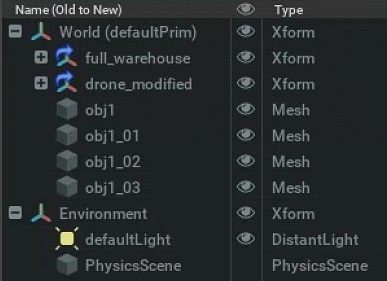
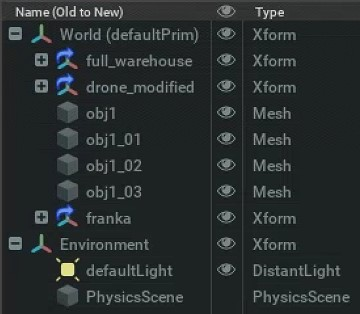
add franka

diff --git a/README.md b/README.md
@@ -6,9 +6,11 @@ Another part of code could be found from [my another repository](https://github.
 
 ![video](README/video.gif)
 
-The video actually carries a 16x speed. The green dot in the GIF above is a problem with video compression. For HD video [click here](https://www.bilibili.com/video/BV1r5411y7bu/).
+The video has been accelerated several times for presentation purposes. The green dot in the GIF above is a problem with video compression. For HD video click [here](https://www.bilibili.com/video/BV1r5411y7bu/).
 
-The drone takes off from its point of origin. Autonomously navigates to the shelf number to take a picture. Then it goes around between the shelves and avoids the obstacles in the middle of the shelves. Finally return to the starting point.
+### Description
+
+The drone takes off from its point of origin. Autonomously navigates to the shelf number to take a picture. Then it goes around between the shelves and avoids the obstacles in the middle of the shelves. Before returning to the end, the drone will rotate around the *frank* for a fortnight and record video, which will be used for scene reconstruction. Finally return to the starting point.
 
 ------
 
@@ -18,11 +20,11 @@ The demo program is based on [NVIDIA Isaac Sim](https://developer.nvidia.cn/isaa
 
 The code and its required environments are deployed via [Docker](https://www.docker.com/), which makes the demo much easier to deploy. You don't even need to clone the repository to run the demo.
 
-### Prerequisite
+## Prerequisite
 
 Make sure you have Isaac Sim, Docker and ROS1 installed.
 
-### Get docker images
+## Get docker images
 
 Get the docker images by running the following lines
 
@@ -33,31 +35,37 @@ docker pull endermands/ego_planner:4th3DV
 
 If you want to make modifications, the image already has zsh and vim installed.
 
-### Setup simulation stage
+## Setup simulation stage
 
-##### 1. Add warehouse to stage
+You can either download the full collected USD file directly here or build the stage according to the following guidelines.
+
+### Add warehouse to stage
 
 Launch Isaac Sim with ROS1 Bridge Extension enable.
 
 Create a new stage, then open the Isaac Assets tab and search for **full_warehouse**. Double click on full_warehouse in the search results and it should be loaded under the World. Add **PhysicsScene** by click Create -> Physics -> Physics Scene.
 
-##### 2. Download drone USD file
+### Download drone USD file
 
 Download **drone.zip** from the **IsaacAsset** folder in the repository. Unzip it to wherever you store your isaac models. This model is a drone model with basic ROS interface.
 
 <div align=center><img src="README/drone.jpg" style="zoom:50%;" /></div>
 
-##### 3. Import drone
+### Import drone
 
-In the Content tab navigate to the place where the drone model was unzipped in step 2. Drag and drop the drone.usd file to the World Xform. Select the drone and set the **Z** axis Orient to **90**. Make sure the drone's camera is facing the shelves.
+In the Content tab navigate to the place where the drone model was unzipped in step 2. Drag and drop the *drone.usd* file to the World Xform. Select the drone and set the **Z** axis Orient to **90**. Make sure the drone's camera is facing the shelves.
 
-##### 4. Add some obstacles(optional)
+### Add some obstacles (optional)
 
 The drone will fly between two 06 shelves (with a forklift in the middle) and you can add some obstacles to block the drone from flying. Make sure there is enough space between the obstacles for the drone to travel through.
 
 <div align=center><img src="README/obstacles.jpg" style="zoom:50%;" /></div>
 
-##### Testing
+### Add franka
+
+Open the Isaac Assets tab and search for **franka**. Drag and drop it to the World Xform. Set the X translation to 2.0, and the Y and Z translations to 0.
+
+### Testing
 
 Based on the above steps, your stage should look like this
 
@@ -75,10 +83,6 @@ Under the Stage tab expand World -> drone -> z and click on z_joint. Under the P
 
 Type `rostopic list` in another ROS sourced terminal. You should be able to see some topics like camera, odom and joints.
 
-##### Troublesome
-
-If you have trouble creating the stage I can send you the full USD file(484MB).
-
 ------
 
 ## Start simulation Demo
@@ -93,10 +97,10 @@ If you have trouble creating the stage I can send you the full USD file(484MB).
 docker run -it --rm --net host endermands/orbbec_competition:latest
 ```
 
-	A Volume is provided in this container. The pictures taken by the programme will be saved in this volume. You can specify the volume path by executing the following command in place of the previous one.
+	A Volume is provided in this container. The entire ROS workspace including the pictures taken by the program and the recorded videos are in the volume. You can specify the volume path by executing the following command in place of the previous one.
 
 ```shell
-docker run -it --rm --net host -v /host/path:/home/m/code/ros_ws/image endermands/orbbec_competition:latest
+docker run -it --rm --net host -v /host/path:/home/m/code/ros_ws endermands/orbbec_competition:latest
 ```
 
 4. In another terminals, running EGO-Planner.
@@ -105,7 +109,7 @@ docker run -it --rm --net host -v /host/path:/home/m/code/ros_ws/image endermand
 docker run -it --rm --net host endermands/ego_planner:4th3DV
 ```
 
-	Notice that this docker image may change in the future and no longer work with the current repository code. You can find the current adapted version in [another repository's release](https://github.com/EnderMandS/ego-planner/releases/tag/v1.0). Then rebuild the docker image, or compile it directly.
+	Notice that this docker image may change in the future and no longer work with the current repository code. You can find the current adapted version in [another repository's release](https://github.com/EnderMandS/ego-planner/releases/tag/v1.0). Then rebuild the docker image, or compile the code directly.
 
 5. Let the programme fly for a while. You should see the drone take off and start navigating. You can also visualise paths and obstacles with Rviz. After the drone returns to the starting point you can find some pictures of the shelf number in the docker container volume.
 
@@ -115,11 +119,11 @@ docker run -it --rm --net host endermands/ego_planner:4th3DV
 
 If you want to run the Demo without docker, compile this repository and [another repository](https://github.com/EnderMandS/ego-planner).
 
-#### Prerequisite
+### Prerequisite
 
 Make sure you have ROS1 and OpenCV installed.
 
-#### Dependencies
+### Dependencies
 
 Replace your ROS distro in the following lines.
 
@@ -128,9 +132,9 @@ sudo apt update
 sudo apt install -y ros-noetic-tf ros-noetic-tf2 ros-noetic-tf2-ros ros-noetic-cv-bridge
 ```
 
-#### Clone & Build
+### Clone & Build
 
-Go to the project directory.
+Navigate to the project directory and then run the following lines.
 
 ```shell
 git clone --depth 1 https://github.com/EnderMandS/orbbec_competition.git
@@ -138,10 +142,9 @@ sudo chmod 777 -R orbbec_competition
 cd orbbec_competition
 source /opt/ros/noetic/setup.sh
 catkin_make -DCATKIN_WHITELIST_PACKAGES="" -DCMAKE_BUILD_TYPE=Release
-source devel/setup.sh
 ```
 
-#### Run
+### Run
 
 In a ROS workspace sourced terminal run
 
